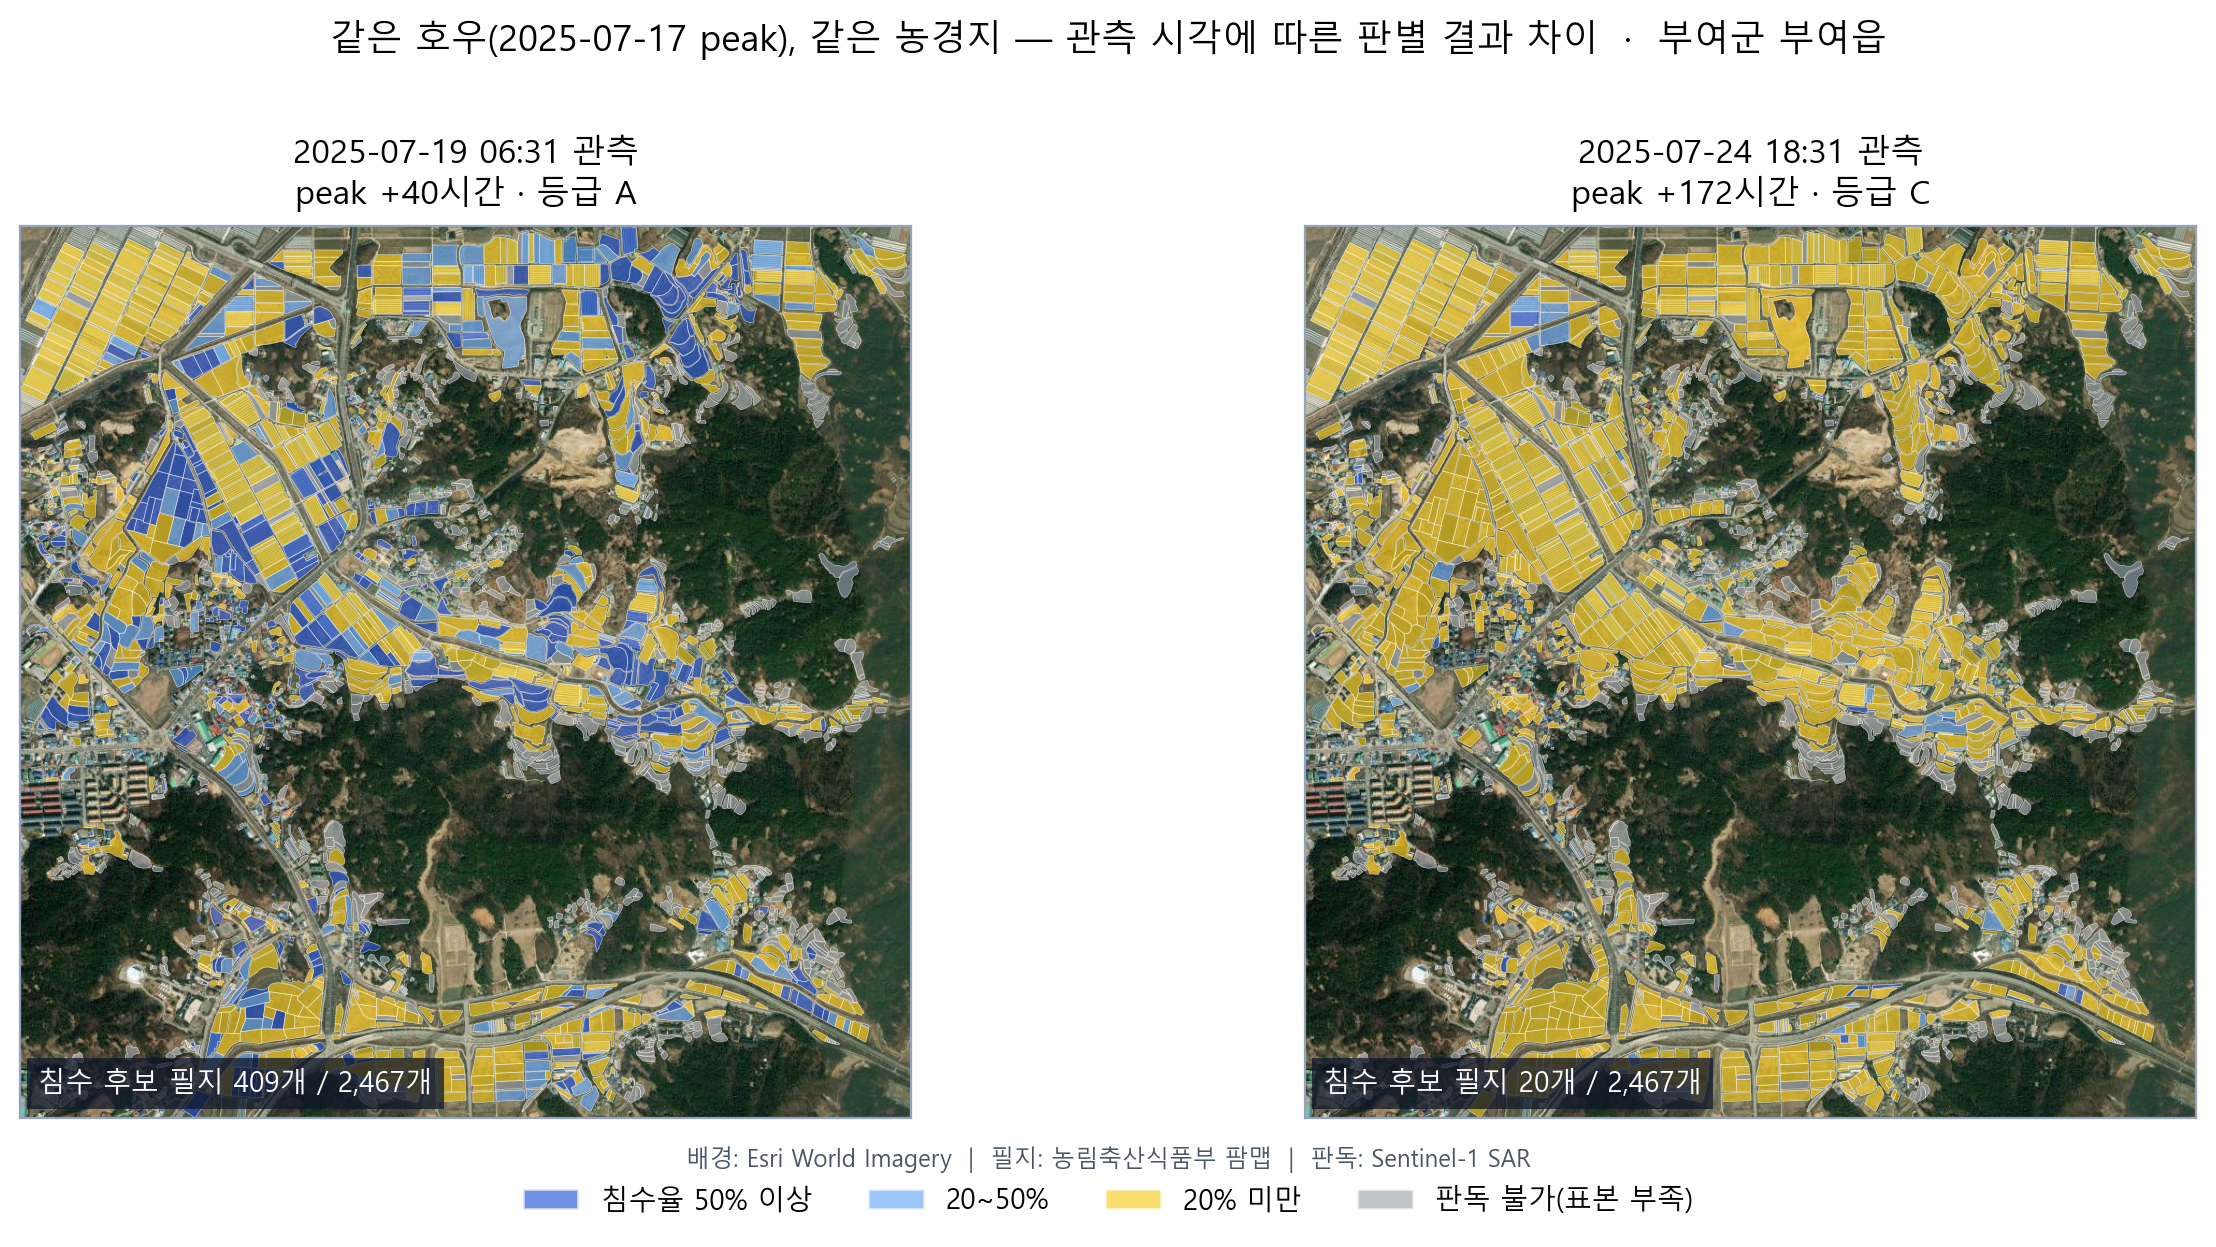
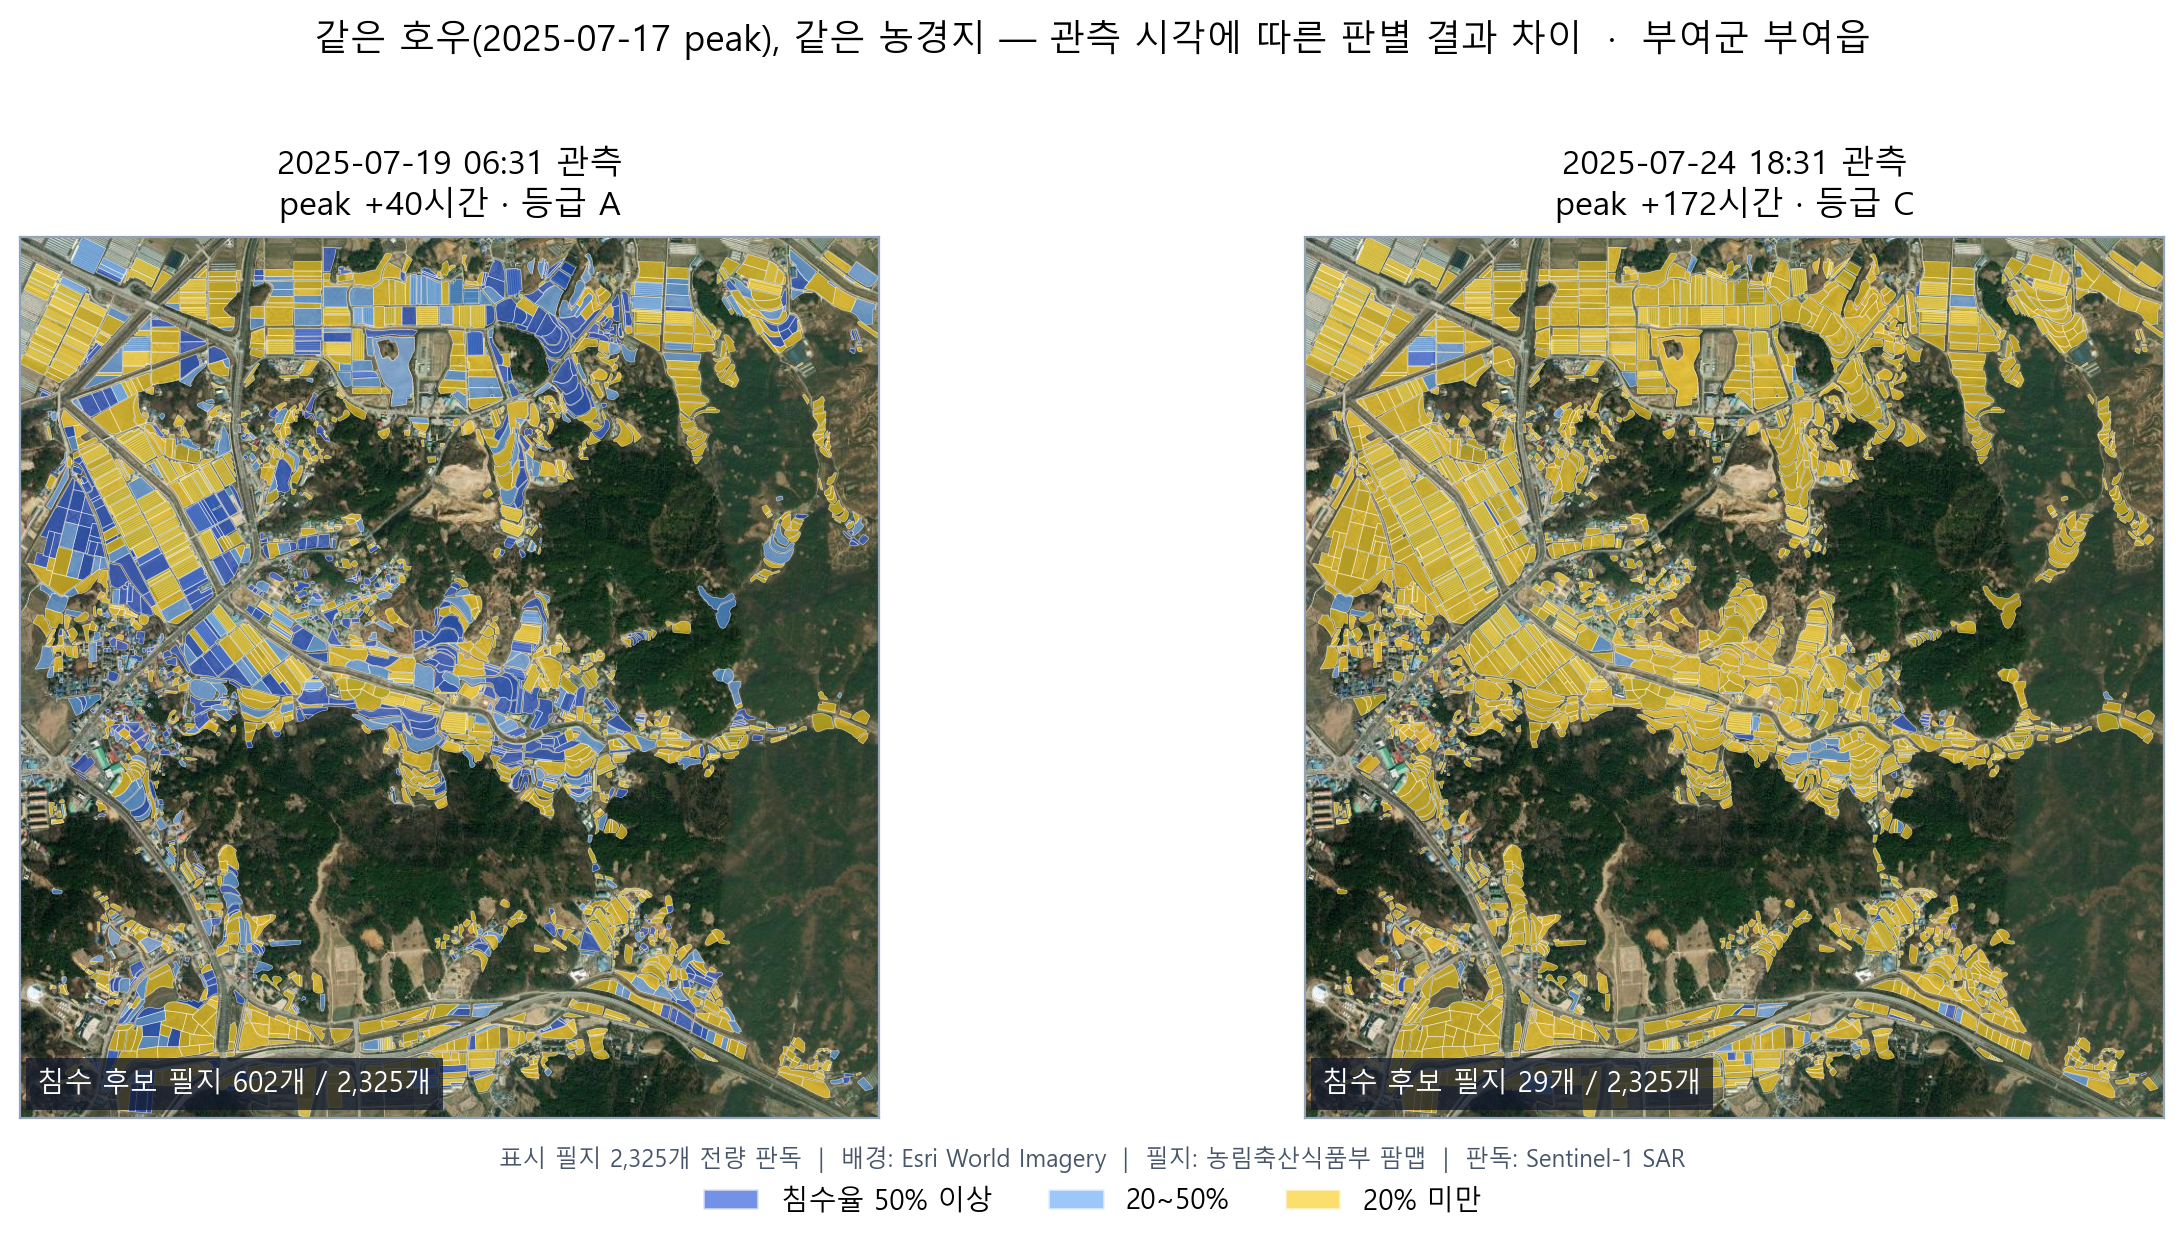
Rebuild the key figure and proposal table on full-coverage readings
The 부여읍 comparison rested on 2,467 parcels because the old mask had
discarded the rest. With every parcel read it covers 10,270:

  07-19 (+40h, grade A)   2,426 flooded candidates  23.6%
  07-24 (+172h, grade C)    121                      1.2%

The 20x gap holds on the full population, so the argument no longer
depends on which parcels survived a filter. No parcel renders gray now,
so the figure drops the "unreadable" legend entry unless one actually
appears, and states the read count instead.

diff --git a/notebooks/make_figure.py b/notebooks/make_figure.py
@@ -161,15 +161,20 @@ def main() -> None:
         Patch(facecolor="#1d4ed8", alpha=0.62, edgecolor="white", label="침수율 50% 이상"),
         Patch(facecolor="#60a5fa", alpha=0.62, edgecolor="white", label="20~50%"),
         Patch(facecolor="#facc15", alpha=0.62, edgecolor="white", label="20% 미만"),
-        Patch(facecolor="#9ca3af", alpha=0.62, edgecolor="white", label="판독 불가(표본 부족)"),
     ]
+    # 판독 불가 항목은 두지 않는다. 마스크를 걷어낸 뒤 이 구역의 필지는 전량 판독된다.
+    # 실제로 회색이 나오는 필지가 있으면 그때 범례에 되살린다.
+    if any(not np.isfinite(v) for e in EVENTS for v in sub_m[e[0]]):
+        handles.append(Patch(facecolor="#9ca3af", alpha=0.62, edgecolor="white", label="판독 불가"))
     fig.legend(handles=handles, loc="lower center", ncol=4, frameon=False, fontsize=10,
                bbox_to_anchor=(0.5, -0.005))
     fig.suptitle(
         f"같은 호우(2025-07-17 peak), 같은 농경지 — 관측 시각에 따른 판별 결과 차이  ·  "
         f"{sub_m['sgg_nm'].iloc[0]} {args.emd}",
         fontsize=13, y=0.98)
-    fig.text(0.5, 0.055, "배경: Esri World Imagery  |  필지: 농림축산식품부 팜맵  |  판독: Sentinel-1 SAR",
+    fig.text(0.5, 0.055,
+             f"표시 필지 {len(sub_m):,}개 전량 판독  |  배경: Esri World Imagery"
+             "  |  필지: 농림축산식품부 팜맵  |  판독: Sentinel-1 SAR",
              ha="center", fontsize=8.5, color="#475569")
     fig.tight_layout(rect=[0, 0.07, 1, 0.95])
 

diff --git a/docs/80_proposal_draft.md b/docs/80_proposal_draft.md
@@ -27,6 +27,7 @@
 본 아이디어는 호우마다 **위성 확인 가능 여부를 A·B·C 등급으로 먼저 판정**하고,
 확인 가능한 사건만 팜맵 농경지 필지 단위로 판독한다. 불가능한 사건은 그렇다고 알려
 현장조사로 전환하게 한다. 관측 427회와 필지 143만 개로 시제품까지 구현해 동작을 확인했다.
+등급 A 사건에서 충남 농경지 필지의 **99.1%에 판독값이 산출된다.**
 
 ---
 
@@ -123,7 +124,9 @@
 나. **양방향으로 본다.** 개방 수면은 후방산란이 감소하지만, 벼처럼 캐노피가 있는 논은
 줄기와 수면의 이중반사로 오히려 **증가**한다. 감소만 보면 논 침수를 놓친다.
 
-다. 팜맵 필지(논·밭·과수·시설)로 집계해 필지별 침수율을 산출한다.
+다. 팜맵 필지(논·밭·과수·시설)로 집계해 필지별 침수율을 산출한다. 필지 안 화소를
+모아 비율을 내는 것이 원칙이며(89.4%), 20m 격자에 화소가 배정되지 않은 소규모 필지는
+대표점 표본으로 값을 내고(10.6%) 근거의 등급을 화면에 구분해 표시한다.
 
 **3. 검증 — 방법의 타당성을 실측으로 확인**
 
@@ -140,12 +143,12 @@
 > [그림 1] 같은 호우(2025-07-17 peak), 같은 농경지 — 관측 시각에 따른 판별 결과
 > `docs/90_submission/figure1_two_observations.png`
 >
-> 부여읍 동일 구역 2,467필지 기준
+> 부여읍 동일 구역 10,270필지 기준 (해당 읍 농경지 필지 전량)
 >
-> | 관측 시각 | peak 기준 | 등급 | 침수 후보 필지 |
-> |---|---|---|---|
-> | 07-19 06:31 | +40시간 | **A** | **409개** |
-> | 07-24 18:31 | +172시간 | **C** | **20개** |
+> | 관측 시각 | peak 기준 | 등급 | 침수 후보 필지 | 비율 |
+> |---|---|---|---|---|
+> | 07-19 06:31 | +40시간 | **A** | **2,426개** | 23.6% |
+> | 07-24 18:31 | +172시간 | **C** | **121개** | 1.2% |
 >
 > 같은 호우, 같은 농경지인데 5일 차이로 20배가 갈린다.
 
